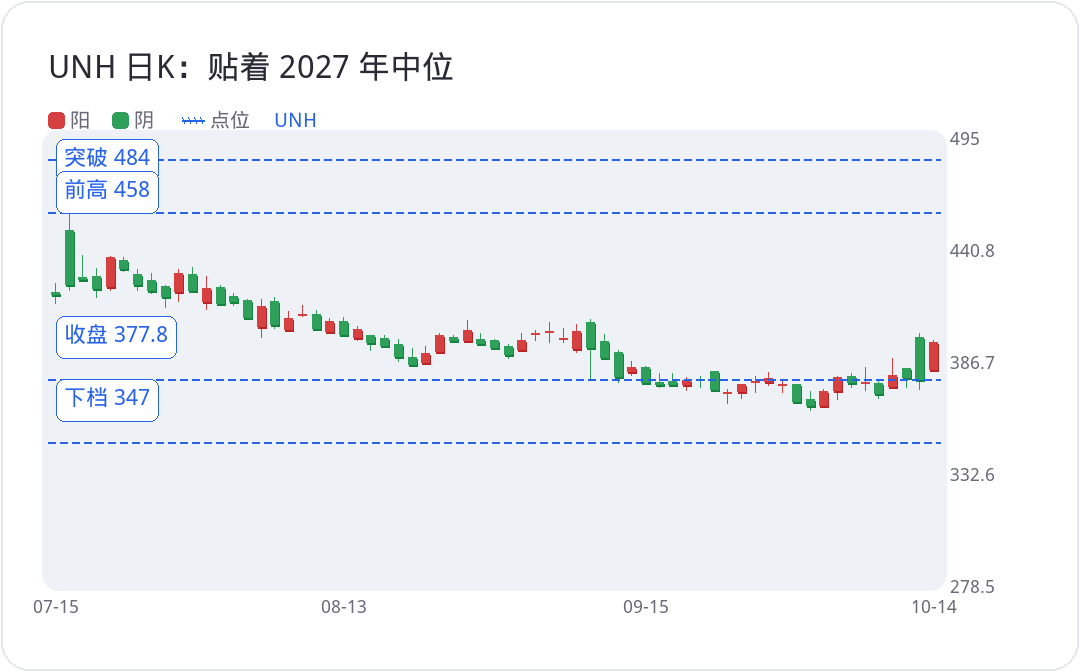
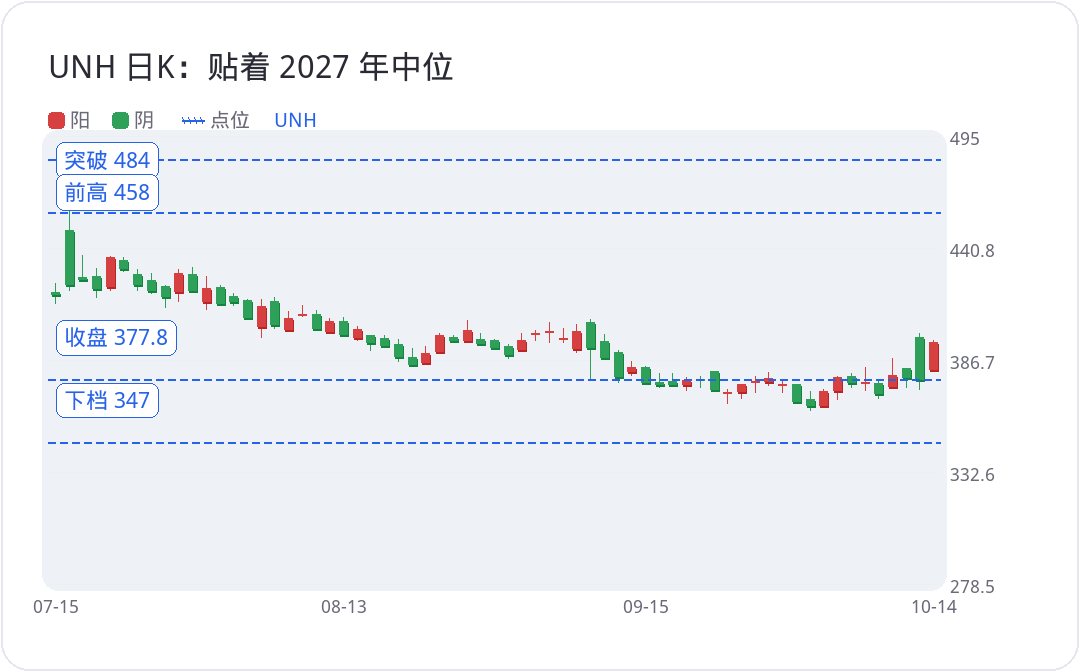
fix(blog): center UNH level captions inside their chips (#184)
The blue price labels were sitting on the bottom edge of the white boxes. Redraw them with equal padding and bust the image cache.

Changed region(s): [[0.0611, 0.2188, 0.1528, 0.3125], [0.0611, 0.5625, 0.1528, 0.625], [0.0611, 0.4688, 0.1528, 0.5312]]

diff --git a/i18n/zh/docusaurus-plugin-content-blog/2026-10-13-d17f32/article.html b/i18n/zh/docusaurus-plugin-content-blog/2026-10-13-d17f32/article.html
@@ -17,7 +17,7 @@
       <p style="margin:0 0 16px 0;padding:0;color:#2a2a34;font-size:22px;line-height:1.45;font-weight:850;text-align:left;letter-spacing:0;">联合健康把价计进去了</p>
       <p style="margin:0 0 16px 0;padding:0;color:#454550;font-size:16px;line-height:1.9;font-weight:400;text-align:left;letter-spacing:0;word-spacing:normal;white-space:normal;word-break:normal;"><strong style="color:#2a2a34;font-weight:700;">UNH</strong> 第三财季调整后每股收益 4.69 美元，高于预期的 4.14 美元。营收 1127 亿，高于预期的 1113.1 亿。全年调整后每股收益指引提到至少 20.50 美元，之前的区间是 19.50 到 20 美元，上沿抬了五毛。这是今年第三次上修全年利润展望。</p>
       <p style="margin:0 0 16px 0;padding:0;color:#454550;font-size:16px;line-height:1.9;font-weight:400;text-align:left;letter-spacing:0;word-spacing:normal;white-space:normal;word-break:normal;">股价是高开低走。收盘 377.76，跌 0.20%。金融股当天很多都是这个形状，摩根大通、高盛也一样。2026 年前瞻估值大约 276 到 444，中位 360。现价已经高于当年中位。要看的是 2027 年：301 到 499，中位 405。现价就贴在这个中位附近，基本面并不贵。技术上要看见新的一段，得先过 484。前面高点 458 挡住过一次，回撤之后又回到 361 到 484 的震荡。再往下一档是 347 到 357。经营上，今年每股收益还在往上提，之前的业绩逆风已经转过来了。想长拿的，要有耐心。458 看起来还不是这轮的顶。</p>
-      <p style="margin:4px 0 16px 0;padding:0;text-align:center;"><img src="/img/2026-10-13-d17f32/chart-unh-kline.png" alt="UNH 日K：贴着 2027 年中位" style="display:block;width:100%;height:auto;border:0;border-radius:14px;padding:0;background:#ffffff;box-sizing:border-box;"/></p>
+      <p style="margin:4px 0 16px 0;padding:0;text-align:center;"><img src="/img/2026-10-13-d17f32/chart-unh-kline.png?v=center" alt="UNH 日K：贴着 2027 年中位" style="display:block;width:100%;height:auto;border:0;border-radius:14px;padding:0;background:#ffffff;box-sizing:border-box;"/></p>
     </section>
     <section style="margin:30px 0 0 0;padding:28px 0 0 0;text-align:left;">
       <section style="margin:0 0 12px 0;padding:0;text-align:left;line-height:1.2;border:0;display:flex;align-items:center;gap:10px;">

diff --git a/blog/2026-10-13-d17f32/article.html b/blog/2026-10-13-d17f32/article.html
@@ -11,7 +11,7 @@
 <p style="margin:0 0 16px 0;padding:0;color:#2a2a34;font-size:22px;line-height:1.45;font-weight:850;text-align:left;letter-spacing:0;">UnitedHealth is already priced near the middle</p>
 <p style="margin:0 0 16px;color:#454550;font-size:16px;line-height:1.9;"><strong>UNH</strong> earned 4.69 dollars a share on an adjusted basis in the third quarter, above the 4.14 dollars expected. Revenue was 112.7 billion, above 111.31 billion. Full-year adjusted earnings are now guided to at least 20.50 dollars a share. The prior range was 19.50 to 20.00. That is a fifty-cent raise at the top, and the third time this year the outlook has moved up.</p>
 <p style="margin:0 0 16px;color:#454550;font-size:16px;line-height:1.9;">The stock opened high and closed weak. It finished at 377.76, down 0.20%. A lot of financials did the same thing, including JPMorgan and Goldman. The 2026 forward range is about 276 to 444, with a midpoint of 360. The price is already above this year&#x27;s midpoint. The year that matters is 2027: 301 to 499, midpoint 405. The stock is sitting on that midpoint. The business is not expensive. Technically, a new leg needs a break of 484. The prior high at 458 rejected it once. After the pullback it is back in the 361 to 484 range. The next shelf down is 347 to 357. Operations are still lifting earnings. Last year&#x27;s headwind has turned. A long-term holder needs patience. 458 does not look like the high of this run.</p>
-<figure style="margin:0 0 20px;text-align:center;"><img src="/img/2026-10-13-d17f32/chart-unh-kline.en.png" alt="UNH daily: near the 2027 midpoint" style="max-width:100%;border-radius:8px;" /></figure>
+<figure style="margin:0 0 20px;text-align:center;"><img src="/img/2026-10-13-d17f32/chart-unh-kline.en.png?v=center" alt="UNH daily: near the 2027 midpoint" style="max-width:100%;border-radius:8px;" /></figure>
 </section>
 <section style="margin:0 0 32px;">
 <div style="display:flex;align-items:center;gap:12px;margin:0 0 16px;"><span style="color:#2763e9;font-size:12px;font-weight:800;letter-spacing:0.14em;white-space:nowrap;">2 · SEMIS</span><span style="flex:1;height:1px;background:#2763e9;"></span></div>
